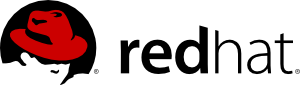
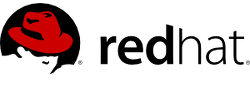
sponsors: Add sponsor levels to the side div
This adds the Gold level to the side bar and reduces the images to be
both 250x86 since they were really too big and I think it looks better
like this and with a bit of padding around.

diff --git a/wordcamp-base/style.css b/wordcamp-base/style.css
@@ -1574,12 +1574,30 @@ h1, h2, h3, h4, h5, h6, #site-title, #site-description, #access .menu, #access d
 }
 
 .sponsors-bar {
-    width: 310px;
+    width: 260px;
     float: right;
 }
 
-.sponsors-bar img {
-    padding-left: 10px;
+.sponsors-bar-title {
+    font-weight: bold;
+    color: #6b8e9f;
+    padding-bottom: 10px;
+}
+
+.sponsors-level {
+    text-align: center;
+}
+
+.sponsors-level-title {
+    font-weight: bold;
+    text-transform: uppercase;
+    text-align: center;
+    background: #6b8e9f;
+    color: #f5f5f4;
+}
+
+.sponsors-level img {
+    padding: 5px 0 5px 0;
 }
 
 .become-sponsor {

diff --git a/wordcamp-base/front.php b/wordcamp-base/front.php
@@ -32,8 +32,12 @@ while ( have_posts() ) : the_post();
         </div>
 
         <div class="sponsors-bar">
-            <img src="<?php echo get_bloginfo('template_url')?>/images/sponsor-google.png" alt="Google" />
-            <img src="<?php echo get_bloginfo('template_url')?>/images/sponsor-redhat.png" alt="Red Hat" />
+            <div class="sponsors-bar-title">Sponsored by</div>
+            <div class="sponsors-level">
+              <div class="sponsors-level-title">Gold</div>
+              <img src="<?php echo get_bloginfo('template_url')?>/images/sponsor-redhat.png" alt="Red Hat" />
+              <img src="<?php echo get_bloginfo('template_url')?>/images/sponsor-google.png" alt="Google" />
+            </div>
             <a href="<?php echo get_permalink(get_page_by_title( 'Sponsors' )); ?>" class="become-sponsor">Become a sponsor too!</a>
         </div>
 	</div>
